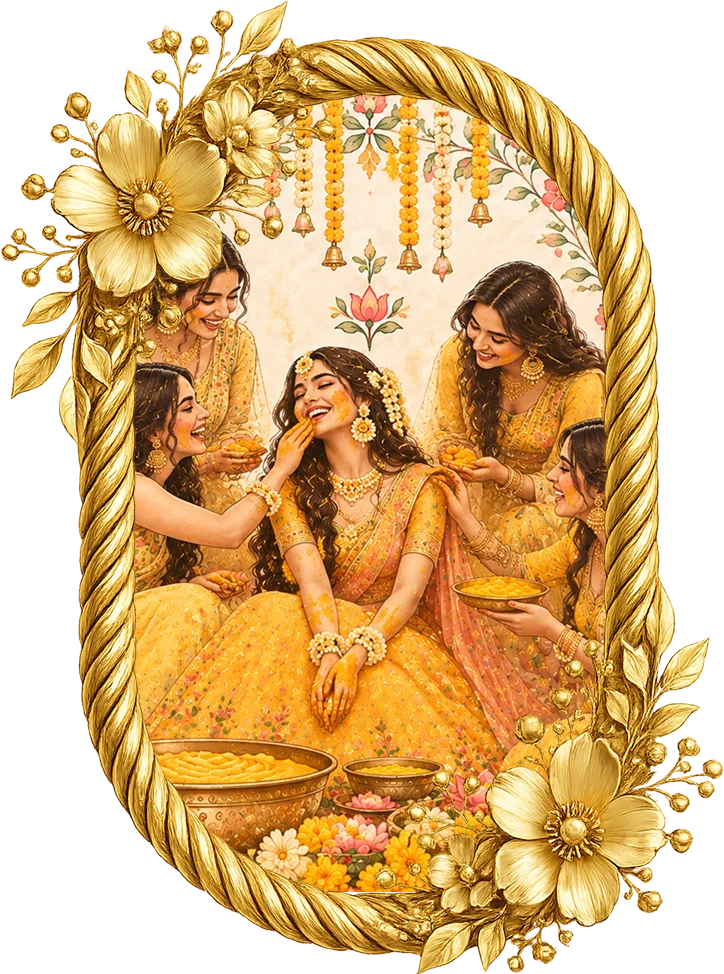
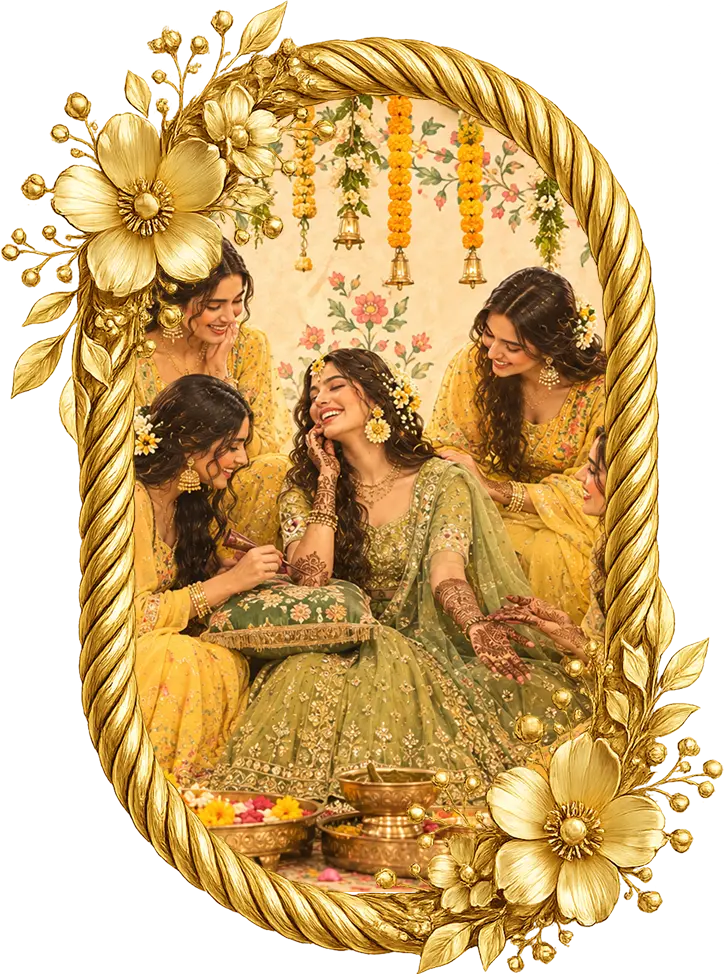
feat: update mehendi image

diff --git a/app/page.tsx b/app/page.tsx
@@ -59,7 +59,7 @@ export default function Home() {
     }, 
   
     {
-      title_ceremony: "Mehndi & Sangeet",
+      title_ceremony: "Mehendi & Sangeet",
       image: "/assets/mehendi.webp",
       date: "Wednesday, November 11th 2026",
       time: "Join Us at 7 pm",
